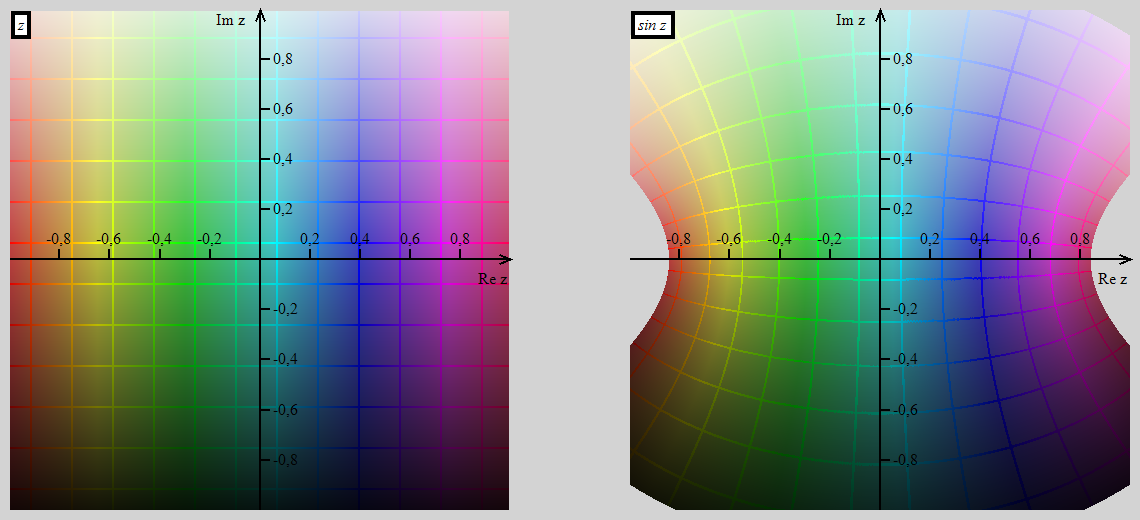
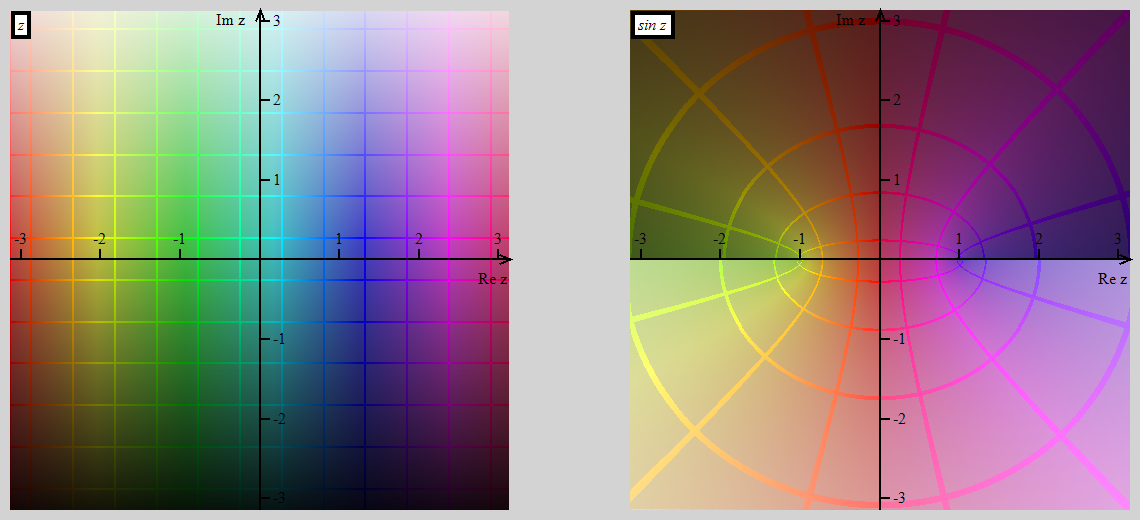
Update and extend examples

diff --git a/src/Program.cs b/src/Program.cs
@@ -42,8 +42,8 @@ namespace ComplexGraph
 
             using var plot = GetPlot();
 
-            double size = Math.PI;
-            double tickStep = 1;
+            double size = 6;
+            double tickStep = 2;
             var area = new Area(
                 new Complex(-size, -size),
                 new Complex(size, size));
@@ -58,16 +58,19 @@ namespace ComplexGraph
 
         private static void DrawExamples()
         {
-            double tickStep = 0.2;
-            var area = new Area(new Complex(-1, -1), new Complex(1, 1));
+            double tickStep = 1;
+            double d = Math.PI;
+            var area = new Area(new Complex(-d, -d), new Complex(d, d));
             var identity = Function.Identity(area);
 
             var funcs = new[]
             {
+                ("sqrt", identity.RightCompose("sqrt(#)", Complex.Sqrt)),
                 ("exp", identity.RightCompose("exp(#)", Complex.Exp)),
                 ("ln", identity.RightCompose("ln #", Complex.Log)),
                 ("sin", identity.RightCompose("sin #", Complex.Sin)),
-                ("sqrt", identity.RightCompose("sqrt(#)", Complex.Sqrt)),
+                ("cos", identity.RightCompose("cos #", Complex.Cos)),
+                ("tan", identity.RightCompose("tan #", Complex.Tan)),
             };
 
             var exDir = Path.Combine("..", "examples");
@@ -75,7 +78,7 @@ namespace ComplexGraph
             {
                 using var plot = GetPlot();
                 Draw(identity, plot.Canvas, plot.PreimageMask, tickStep);
-                Draw(func, plot.Canvas, plot.ImageMask, tickStep, 8000, 8000);
+                Draw(func, plot.Canvas, plot.ImageMask, tickStep, 16000, 16000);
                 plot.Canvas.Save(Path.Combine(exDir, $"{fileName}.png"));
             }
         }

diff --git a/README.md b/README.md
@@ -21,6 +21,12 @@ The project is in a work stage...
 ## Sine
 ![sin](examples/sin.png)
 
+## Cosine
+![cos](examples/cos.png)
+
+## Tangent
+![tan](examples/tan.png)
+
 ## Exponent
 ![exp](examples/exp.png)
 
